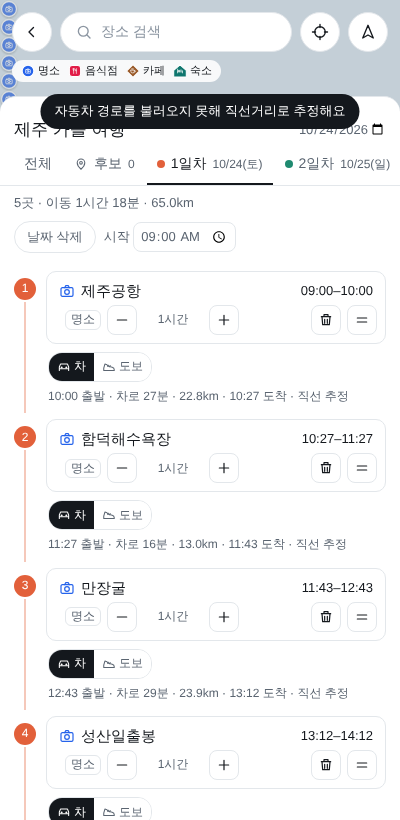
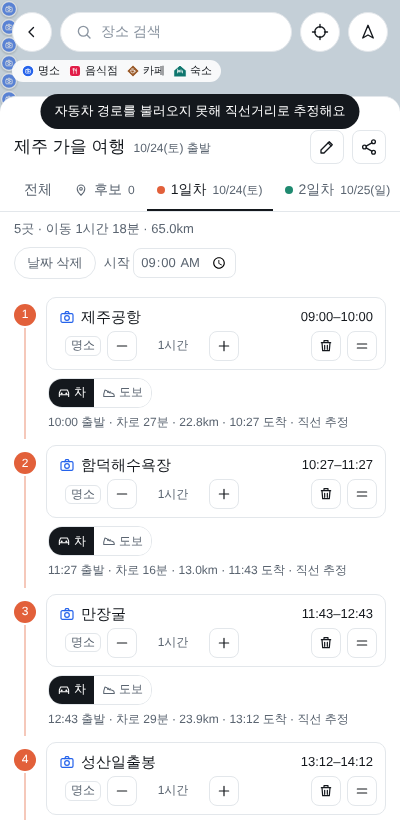
Make the sheet title read-only until the edit button, enlarge the handle
Dragging the sheet from its title no longer focuses the name or date
inputs: title and start date show as text, and a pencil button opens the
edit row (Enter or 완료 saves). The drag handle is larger and the header
zone taller so the sheet is easier to grab.

Claude-Session: https://claude.ai/code/session_01VYQ5p6m4u56bG2CvGFCcJR

diff --git a/js/ui.js b/js/ui.js
@@ -95,7 +95,7 @@ function detail(i,r){
  h+='</div><p class="foot">'+(KM?'카카오 로컬 검색 결과예요. 카카오 API는 평점을 주지 않아서 평점은 아직 표시하지 않아요.':'예시 데이터예요. 카카오와 네이버 검색 결과를 합쳐 보여주고, 같은 장소는 하나로 묶어요. 네이버 검색 API는 평점을 주지 않아서 평점은 카카오 장소 상세 값만 표시해요.')+'</p></div>';
  return h;
 }
-function renderAll(){renderTabs();pg=prog();renderG();renderList();drawMap();renderOrdbar();renderShnote();saveTrip();}
+function renderAll(){renderTabs();pg=prog();renderG();renderList();drawMap();renderOrdbar();renderShnote();renderHead();saveTrip();}
 
 function toast(t,undo){
  const el=$('#toast');el.textContent=t;
@@ -185,7 +185,16 @@ $('#tabs').addEventListener('click',e=>{
 list.addEventListener('change',e=>{if(!ap)return;if(e.target.id==='ap-h')ap.h=e.target.value;if(e.target.id==='ap-keep')ap.keep=e.target.checked;});
 $('#sum').addEventListener('change',e=>{if(e.target.id==='stime'&&e.target.value){trip.days[sd].start=e.target.value;renderAll();}});
 $('#dstart').addEventListener('change',e=>{if(e.target.value){trip.start=e.target.value;renderAll();}});
-$('#title').addEventListener('input',saveTrip);
+/* 제목·출발일: 평소엔 글자로만 보이고(시트를 끌 때 입력칸이 잡히지 않게), 연필을 눌러야 고친다 */
+function renderHead(){$('#ttl-text').textContent=trip.title;$('#date-text').textContent=mdw(trip.start)+' 출발';}
+function editHead(on){
+ $('#head-view').hidden=on;$('#head-edit').hidden=!on;
+ if(on){$('#title').value=trip.title;$('#dstart').value=trip.start;setTimeout(()=>$('#title').focus(),30);return;}
+ trip.title=clean($('#title').value.trim())||'이름 없는 여행';$('#title').value=trip.title;renderAll();
+}
+$('#edit-btn').addEventListener('click',()=>editHead(true));
+$('#edit-done').addEventListener('click',()=>editHead(false));
+$('#title').addEventListener('keydown',e=>{if(e.key==='Enter')editHead(false);});
 $('#refit').addEventListener('click',()=>{sel=null;nb.hi=null;ahi=null;refit();renderAll();});
 
 /* ---------- 검색 ---------- */

diff --git a/css/style.css b/css/style.css
@@ -22,12 +22,19 @@ button:focus-visible,input:focus-visible{outline:2px solid var(--ink);outline-of
 #sheet{position:absolute;left:0;right:0;bottom:0;height:420px;background:var(--paper);border-radius:16px 16px 0 0;border-top:1px solid var(--line);display:flex;flex-direction:column;z-index:4}
 #sheet.snap{transition:height .22s ease}
 @media (prefers-reduced-motion:reduce){#sheet.snap{transition:none}}
-#dz{padding:8px 14px 0;touch-action:none;flex:none;cursor:grab}
-.handle{width:36px;height:4px;border-radius:2px;background:var(--ink3);opacity:.5;margin:0 auto 6px}
+#dz{padding:10px 14px 2px;touch-action:none;flex:none;cursor:grab}
+.handle{width:52px;height:6px;border-radius:3px;background:var(--ink3);opacity:.6;margin:2px auto 12px}
 .head{display:flex;align-items:center;justify-content:space-between;gap:8px}
-#title{border:0;background:transparent;font-size:17px;font-weight:500;flex:1;min-width:0;padding:4px 0}
+#head-view{min-height:40px}
+.hv{flex:1;min-width:0;display:flex;align-items:baseline;gap:8px;user-select:none;-webkit-user-select:none}
+#ttl-text{font-size:17px;font-weight:500;white-space:nowrap;overflow:hidden;text-overflow:ellipsis;min-width:0}
+#date-text{flex:none}
+#edit-btn{width:34px;height:34px;flex:none}
+#head-edit[hidden],#head-view[hidden]{display:none}
+#title{border:1px solid var(--ink);border-radius:8px;background:var(--paper);font-size:16px;font-weight:500;flex:1;min-width:0;padding:6px 8px}
 #share-btn{width:34px;height:34px;flex:none}
-#dstart{border:0;background:transparent;color:var(--ink2);font-size:13px;text-align:right;flex:none;max-width:40%}
+#dstart{border:1px solid var(--line);border-radius:8px;background:var(--paper);color:var(--ink);font-size:14px;padding:5px 4px;flex:none;max-width:42%}
+#edit-done{flex:none;background:var(--ink);color:var(--paper);border-color:var(--ink)}
 #grab{padding:0 14px;flex:none;touch-action:pan-x}
 #veil{display:none;position:absolute;left:0;right:0;top:0;height:100%;border:0;padding:0;margin:0;background:rgba(20,24,29,.12);cursor:pointer;z-index:2}
 #app.full #veil{display:block}

diff --git a/index.html b/index.html
@@ -35,6 +35,7 @@
 <symbol id="i-pin" viewBox="0 0 24 24"><path d="M12 21s-6.5-5.6-6.5-11a6.5 6.5 0 0 1 13 0c0 5.4-6.5 11-6.5 11z"/><circle cx="12" cy="10" r="2.3"/></symbol>
 <symbol id="i-share" viewBox="0 0 24 24"><circle cx="18" cy="5" r="2.5"/><circle cx="6" cy="12" r="2.5"/><circle cx="18" cy="19" r="2.5"/><path d="M8.2 10.8l7.6-4.4M8.2 13.2l7.6 4.4"/></symbol>
 <symbol id="i-list" viewBox="0 0 24 24"><path d="M9 6h11M9 12h11M9 18h11M4.5 6h.01M4.5 12h.01M4.5 18h.01"/></symbol>
+<symbol id="i-edit" viewBox="0 0 24 24"><path d="M4 20h4L19 9l-4-4L4 16z"/><path d="M13.5 6.5l4 4"/></symbol>
 <symbol id="i-swap" viewBox="0 0 24 24"><path d="M4 8h14l-3-3M20 16H6l3 3"/></symbol>
 </svg>
 
@@ -56,10 +57,15 @@
   <section id="sheet" aria-label="여행 일정">
     <div id="dz">
       <div class="handle"></div>
-      <div class="head">
-        <input id="title" aria-label="여행 이름" value="제주 가을 여행">
-        <input id="dstart" type="date" aria-label="출발일" value="2026-10-24">
+      <div class="head" id="head-view">
+        <div class="hv"><span id="ttl-text"></span><span id="date-text" class="sub"></span></div>
+        <button class="ib" id="edit-btn" aria-label="여행 이름·출발일 수정"></button>
         <button class="ib" id="share-btn" aria-label="일정 공유"></button>
+      </div>
+      <div class="head" id="head-edit" hidden>
+        <input id="title" aria-label="여행 이름" maxlength="40" value="제주 가을 여행">
+        <input id="dstart" type="date" aria-label="출발일" value="2026-10-24">
+        <button class="chip" id="edit-done">완료</button>
       </div>
     </div>
     <div id="grab">

diff --git a/js/trips.js b/js/trips.js
@@ -51,7 +51,7 @@ function openHome(){stopAll();renderG();hmenu=null;hdel=null;htab=tripState(trip
 function closeHome(){home.classList.remove('on');}
 function openTrip(t){
  stopAll();gmsg='';trip=t;sd=0;all=false;pool=false;ord=null;phi=null;sel=null;ahi=null;nb.hi=null;dpend=-1;
- $('#title').value=t.title;$('#dstart').value=t.start;
+ $('#title').value=t.title;$('#dstart').value=t.start;$('#head-view').hidden=false;$('#head-edit').hidden=true;
  closeHome();refit();renderAll();
 }
 const tripById=id=>TRIPS.find(t=>t.id===id);

diff --git a/js/util.js b/js/util.js
@@ -6,3 +6,4 @@ $('#gps').innerHTML=ic('nav');
 $('#sclose').innerHTML=ic('x');
 $('#home-open').innerHTML=ic('left');
 $('#share-btn').innerHTML=ic('share');
+$('#edit-btn').innerHTML=ic('edit');
